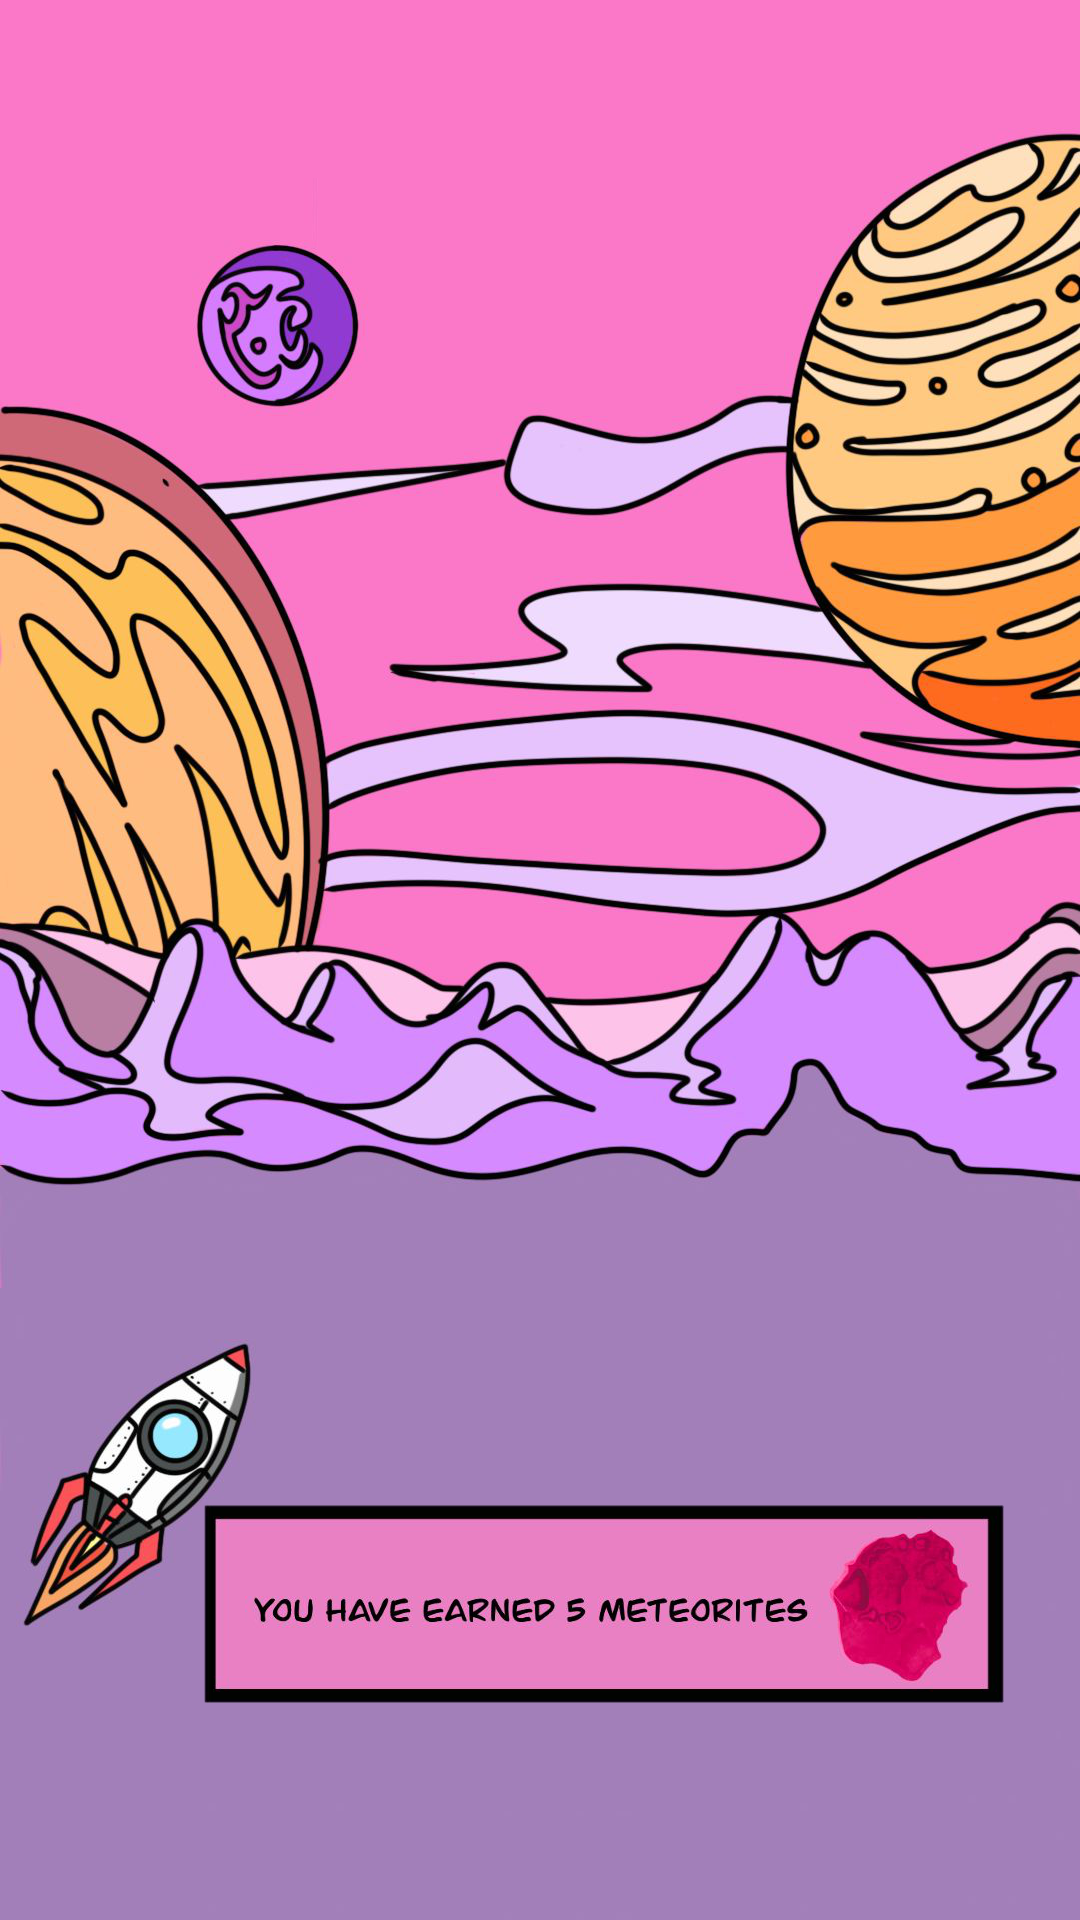
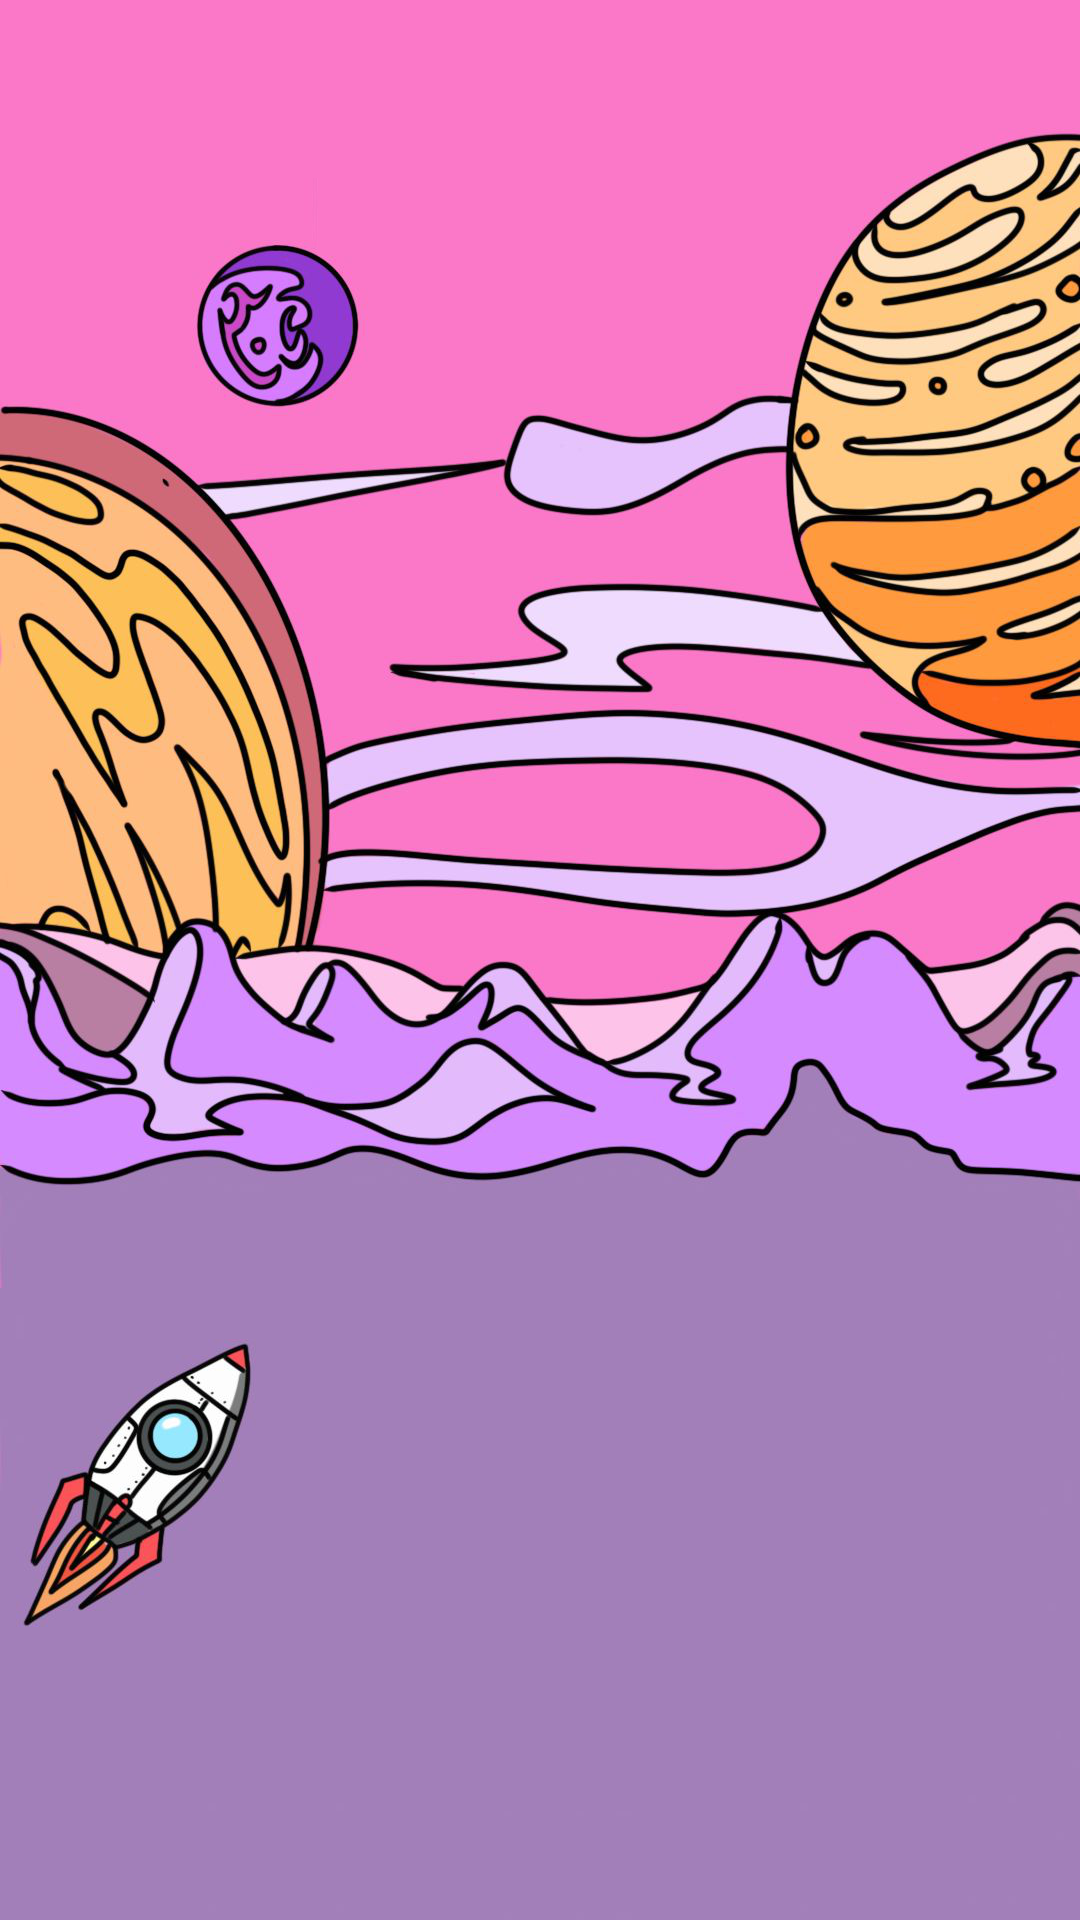
page updates

Changed region(s): [[0.1833, 0.7812, 0.9472, 0.9062]]

diff --git a/script.js b/script.js
@@ -1,7 +1,10 @@
-const ip = "apitest2-b5pthtwkoq-nw.a.run.app";//"127.0.0.1:5000";//"127.0.0.1:5000";
-const protocol = "https://"
+const ip = "apitest2-b5pthtwkoq-nw.a.run.app";
+//const ip = "127.0.0.1:5000";
+
 
 const qn = 5;
+
+const rocketSize = '10vh';
 
 var t;
 var timerInterval;
@@ -26,11 +29,13 @@ var width = 0;
 
 
 var planetNo = -1;
+var rocketScreenHeight = 844;
 var rocketPositions = [[195, 820], [70, 780], [330, 760], [130, 660], [315, 620], [95, 430], [330, 440], [310, 230], [80, 200], [195, 50]]
 var planetList = ['Mercury', 'Venus', 'Earth', 'Mars', 'Jupiter', 'Saturn', 'Uranus', 'Neptune']
 
 var rocketX = rocketPositions[0][0];
 var rockety = rocketPositions[0][1];
+
 
 //useful functions
 function randint(min, max) {
@@ -151,7 +156,7 @@ function setRocket(width) {
   rocket = document.getElementById("rocket");
   elem.style.width = width + "%";
   elem.innerHTML = width + "%";
-  rocket.style.left = "calc(+"+width + "% - 70px)";
+  rocket.style.left = "calc(+"+width + "% - 8vh)";
 
 }
 
@@ -262,7 +267,7 @@ function startQuiz() {
     console.log("Fetching data...");
 
     //Fetch questions from server
-    getJSON(protocol+ip+"/api.json?key="+key+"&theme=SolarSystem").then(data => {
+    getJSON("http://"+ip+"/api.json?key="+key+"&theme=SolarSystem").then(data => {
       questions = data;
       console.log(questions);
       nextQuestion();
@@ -443,7 +448,7 @@ function settings() {
 function profile() {
   console.log('profile');
   document.getElementById('usernameProfile').innerHTML = username;
-  getJSON(protocol+ip+"/achievements.json?key="+key+"").then(data => {
+  getJSON("http://"+ip+"/achievements.json?key="+key+"").then(data => {
     console.log(data);
     achievements = data.achievements;
     listItems = document.getElementById('achievements').children;
@@ -504,7 +509,7 @@ function hideAchievement() {
 
 function authenticate(key) {
   var data2;
-  authJson = getJSON(protocol+ip+"/auth.json?key="+key).then(data => {
+  authJson = getJSON("http://"+ip+"/auth.json?key="+key).then(data => {
     console.log(data);
     data2 = data;
     username = data.username;
@@ -552,7 +557,7 @@ function start2(data){
 
 function createAccount(key) {
   username = document.getElementById("username").value;
-  result = getJSON(protocol+ip+"/create.json?key="+key+"&username="+username).then(data => {
+  result = getJSON("http://"+ip+"/create.json?key="+key+"&username="+username).then(data => {
     console.log(data);
     if (data.code == 200) {
       start();
@@ -603,15 +608,27 @@ function moveRocket(x=50, y=50) {
   console.log(convDegrees(angle));
 
   rocket2 = document.getElementById('rocket2');
-  rocket2.style.left = 'calc('+rocketX+'px - 20vw)';
+  rocket2.style.left = 'calc('+rocketX+'px - '+rocketSize+')';
   rocket2.style.top = rockety;
   rocket2.style.transform = 'rotate('+angle+'rad)';
   var id = setInterval(frame, 10);
   function frame() {
+    body = document.body,
+    html = document.documentElement;
+    //height = Math.max( body.scrollHeight, body.offsetHeight, 
+    //                   html.clientHeight, html.scrollHeight, html.offsetHeight );
+
+    height = html.clientHeight;
+    heightRatio = height/844;
+    console.log(height);
+    console.log(heightRatio);
+
     rocketX += stepx;
-    rocket2.style.left = 'calc('+rocketX+'px - 20vw)';
+    console.log(rocketX);
+    rocket2.style.left = 'calc(50% - (195 * (100vh / 844)) + ('+rocketX+' * (100vh / 844)) - '+rocketSize+')';
+    //rocket2.style.left = 'calc(50% - '+(195*heightRatio)+'px + '+(rocketX*heightRatio)+'px - '+rocketSize+')';
     rockety += stepy;
-    rocket2.style.top = 'calc('+rockety+'px - 20vw)';
+    rocket2.style.top = 'calc('+(rockety/8.44)+'% - '+rocketSize+')';
 
     if ((rocketX <= x & stepx < 0) || (rocketX >= x & stepx > 0)) {
       rocketX = x;

diff --git a/index.html b/index.html
@@ -1,6 +1,6 @@
 <html>
     <head>
-        <title>Atlas Test</title>
+        <title>Atlas</title>
         <link rel="stylesheet" type="text/css" href="./style.css">
         <link rel="stylesheet" type="text/css" href="./login.css">
         <link rel="stylesheet" type="text/css" href="./quiz.css">
@@ -32,7 +32,7 @@
         <div class="pages" id='quiz' style='display:none'>
             <div id="map" style='display:none' onclick="startQuiz()">
                 <p id="planetName"></p>
-                <img id="rocket2" src="images/rocket.png" style="position: absolute; height: 40vw; transform: rotate(-90deg);">
+                <img id="rocket2" src="images/rocket.png" style="position: absolute; height: 20vh; transform: rotate(-90deg);">
             </div>
             <div id="quiz2" style='display:none'>
                 <div id='mcq'>
@@ -65,7 +65,7 @@
                 </div>
                 <div id="myProgress">
                     <div id="myBar" style="float: left">0%</div>
-                    <img id="rocket" src="images/rocket.png" style="float: right; height: 200%; position:absolute;left:calc(0% - 70px); top:-50%"/>
+                    <img id="rocket" src="images/rocket.png" style="float: right; height: 20vh; position:absolute;left:calc(0% - 70px); top:-50%"/>
                 </div>
             </div>
         </div>

diff --git a/quiz.css b/quiz.css
@@ -21,6 +21,7 @@
 
 #map {
     position: relative;
+    background-color: #e980c3;
     background-image: url("images/planets.png");
     background-size: auto 100%;
     width:100%;
@@ -126,7 +127,9 @@
 
 #congrats {
     text-align: center;
-    padding-top: 4%;
+    position: absolute;
+    width: 100%;
+    margin-top: 1vh;
 }
 
 .questionResult {
@@ -170,15 +173,16 @@
     background-color: #fb78c9;
     width: 90%;
     height: 10%;
-    left: 10%;
-    margin-top: 15%;
+    top: 5%;
     float: right;
     border: solid 3px;
+    position: relative;
 }
 
 #meteorites {
     margin-top: 30px;
     font-size: 18px;
+    width: calc(100% - 10vh);
     float: left;
 }
 

diff --git a/style.css b/style.css
@@ -1,6 +1,7 @@
 body {
     margin: 0;
     overflow:hidden;
+    position: static;
     font-family: sans-serif;
 }
 

diff --git a/main.py b/main.py
@@ -1,0 +1,181 @@
+from flask import Flask, request, jsonify, send_file, render_template
+from flask_cors import CORS
+import json
+import sqlite3
+
+
+
+app = Flask(__name__)
+CORS(app)
+
+def hash(key):
+    #TODO hash the key through a secure hashing algorithm
+    return key
+
+def verifyKey(key):
+    con = sqlite3.connect('questions.db')
+    cur = con.cursor()
+    result = cur.execute('SELECT * FROM users WHERE credentials=?', (key,)).fetchall()
+    con.close()
+    if len(result) == 0:
+        return False
+    else:
+        return True
+
+def getUsername(key):
+    con = sqlite3.connect('questions.db')
+    cur = con.cursor()
+    result = cur.execute('SELECT username FROM users WHERE credentials=?', (key,)).fetchall()
+    con.close()
+    print(result)
+    try:
+        return result[0][0]
+    except:
+        return ''
+
+@app.route('/')
+def home():
+    #redirect to api.json
+    return '<html><head><script>window.location = "/api.json"</script></head></html>'
+
+@app.route('/api.json')
+def question():
+    key = request.args.get('key')
+    key = hash(key)
+    print(key)
+    if verifyKey(key):
+        type = request.args.get('theme')
+        print(type)
+
+        jsonToSend = {}
+        questionArray = []
+        con = sqlite3.connect('questions.db')
+        cur = con.cursor()
+        v = (type,)
+        if type == None:
+            values = cur.execute("SELECT question, theme, ans1, ans2, ans3 FROM questions")
+        else:
+            values = cur.execute("SELECT question, theme, ans1, ans2, ans3 FROM questions WHERE theme=?", v)
+        for row in values:
+            question = {'question': row[0], 'theme': row[1], 'answers': [row[2],row[3],row[4]]}
+            questionArray.append(question)
+        con.close()
+        jsonToSend['questions'] = questionArray
+        
+        jsonToSend['code'] = 200
+        jsonToSend['message'] = 'OK'
+        response = jsonToSend
+    else:
+        return '{"code": 403, "message": "Your key is not permitted to perform this action"}'
+    
+    return response
+
+@app.route('/auth.json')
+def auth():
+    key = request.args.get('key')
+    key = hash(key)
+    print(key)
+    if verifyKey(key):
+        return '{"code": 200, "message": "OK", "auth": "%s", "username": "%s"}' % (key, getUsername(key))
+    else:
+        return '{"code": 403, "message": "Username or Password is incorrect", "auth": ""}'
+
+@app.route('/create.json')
+def createAccount():
+    key = request.args.get('key')
+    key = hash(key)
+    username = request.args.get('username')
+
+
+    if key and username:
+        con = sqlite3.connect('questions.db')
+        cur = con.cursor()
+        result = cur.execute('SELECT * FROM users WHERE username=?', (username,)).fetchall()
+        print(len(result))
+        if len(result) == 0:
+            print('inserting')
+            print(username, key)
+            print(cur.execute('INSERT INTO users (username, credentials) VALUES (?, ?)', (username,key)))
+            con.commit()
+            con.close()
+            return '{"code": 200, "message": "OK"}'
+        else:
+            con.close()
+            return '{"code": 409, "message": "An account with that username already exists"}'
+    else:
+        return '{"code": 400, "message": "The key or username are empty"}'
+
+@app.route('/username.json')
+def user():
+    key = request.args.get('key')
+    username = getUsername(key)
+    if username:
+        return '{"code": 200, "message": "OK", "username": "%s"}' % username
+    else:
+        return '{"code": 404, "message": "Username could not be found"}'
+
+@app.route('/achievements.json')
+def getAchievements():
+    key = request.args.get('key')
+    con = sqlite3.connect('questions.db')
+    cur = con.cursor()
+    achievementsRaw = cur.execute('SELECT name, description, achievementid FROM achievements')
+    achievements = []
+    for achievement in achievementsRaw:
+        id = achievement[2]
+        print(id)
+        username = getUsername(key)
+        granted = alreadyGranted(username, id)
+        achievements.append({'id': id, 'name': achievement[0], 'description': achievement[1], 'granted': granted, 'image': 'http://127.0.0.1:5500/images/icon.png'})
+    con.close()
+
+    jsonToReturn = {'code': 200, 'message': 'OK', 'achievements': achievements}
+    return jsonToReturn
+
+def alreadyGranted(username, achievementid):
+    con = sqlite3.connect('questions.db')
+    cur = con.cursor()
+    numOfResults = len(cur.execute('SELECT * FROM achievementLog WHERE username=? AND achievementid=?', (username,achievementid)).fetchall())
+    con.close()
+    if numOfResults:
+        return True
+    else:
+        return False
+
+
+@app.route('/grant.json')
+def grantAchievement():
+    key = request.args.get('key')
+    print(key)
+    achievementid = request.args.get('achievementid')
+    username = getUsername(key)
+    print(username)
+    if username:
+        if alreadyGranted(username, achievementid):
+            return '{"code": 409, "message": "Achievement has already been granted to this user"}'
+        else:
+            con = sqlite3.connect('questions.db')
+            cur = con.cursor()
+            cur.execute('INSERT INTO achievementLog (username, achievementid) VALUES (?, ?)', (username,achievementid))
+            con.commit()
+            con.close()
+            return '{"code": 200, "message": "OK"}'
+    else:
+        return '{"code": 404, "message": "User not found"}'
+
+@app.route('/image.png')
+def get_image():
+    filename = request.args.get('id')+'.png'
+    return send_file(filename, mimetype='image/png')
+
+@app.route('/index.html')
+def returnFile():
+    return render_template("index.html")
+
+#@app.errorhandler(404)
+#def notFound(e):
+#    print(e)
+#    return 'test'
+
+if __name__ == '__main__':
+    app.run()
